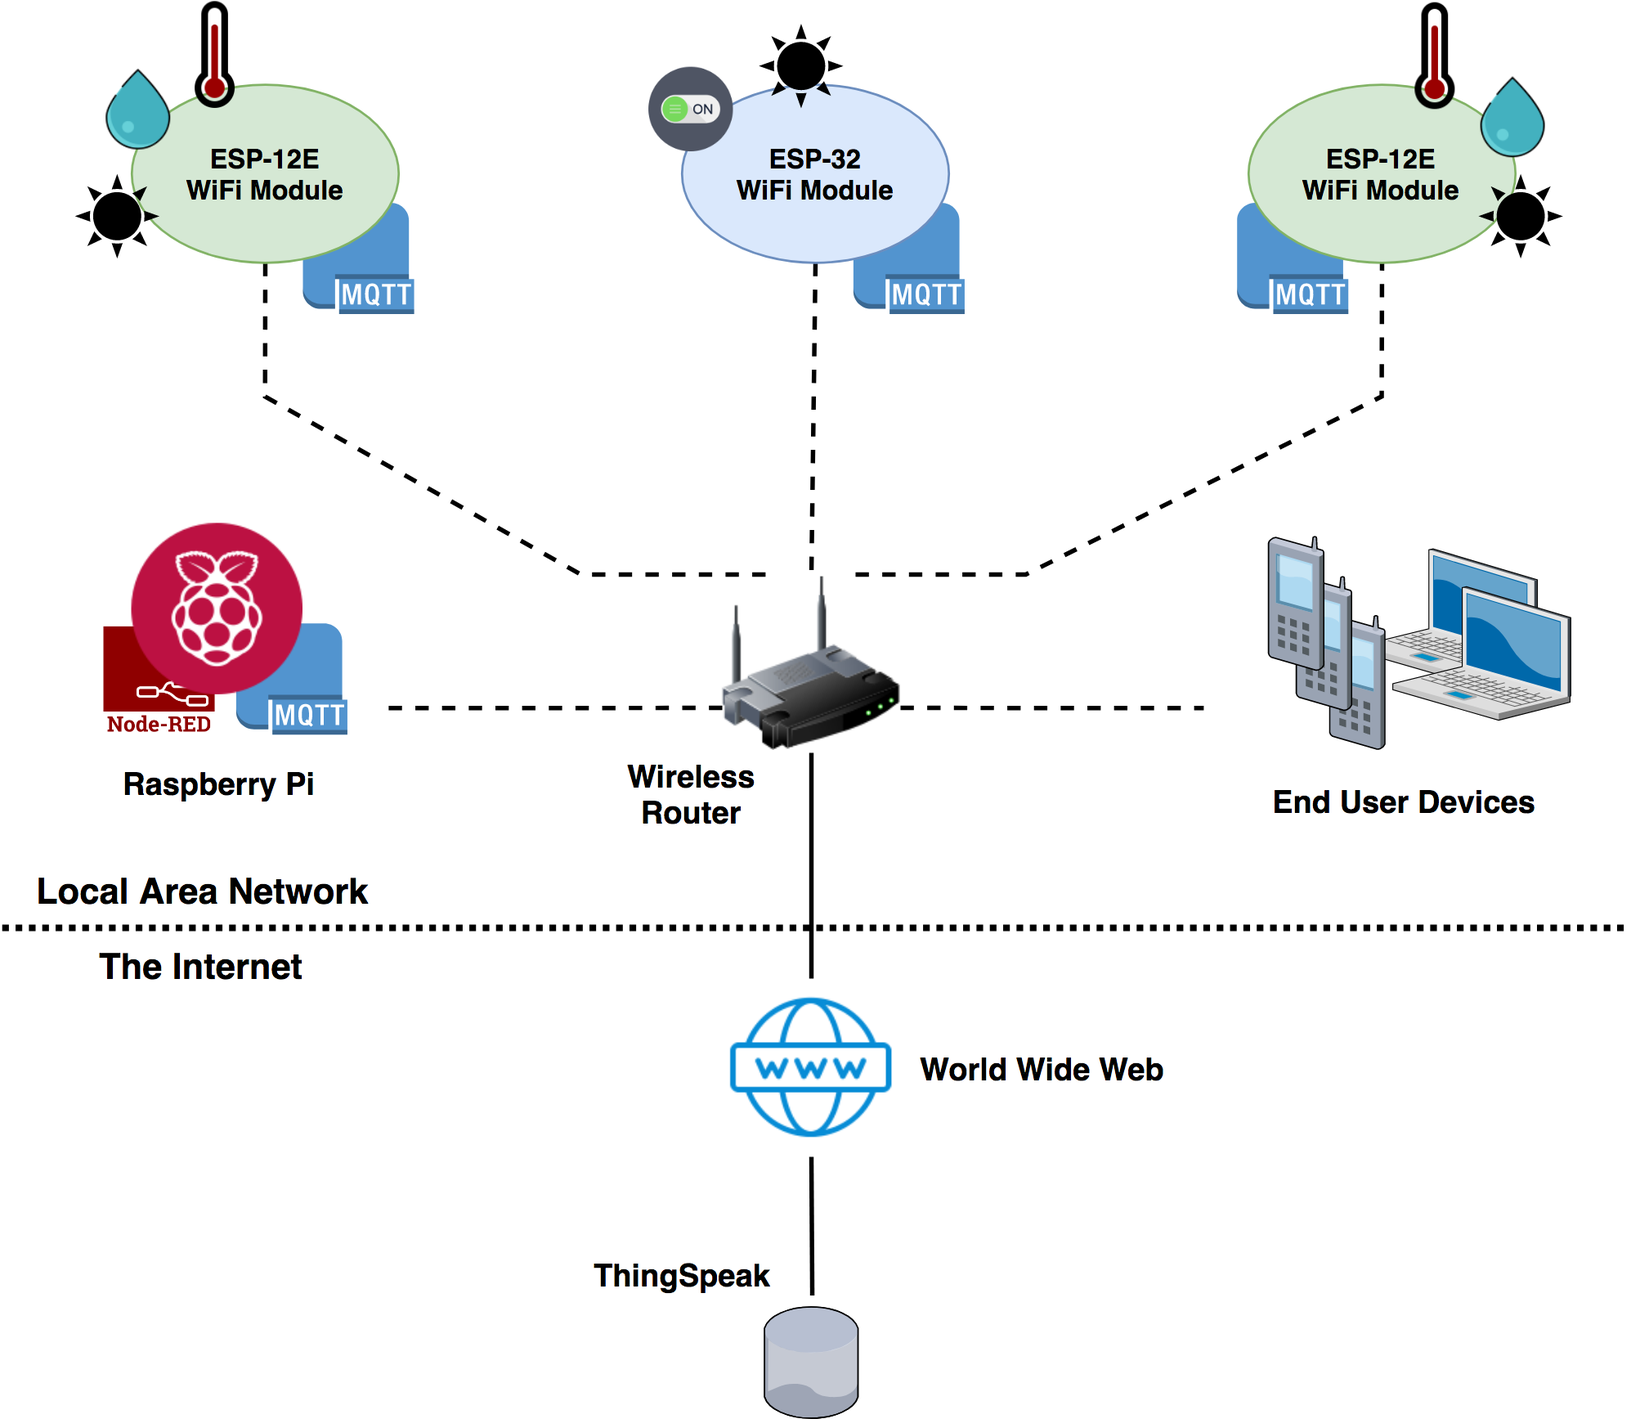
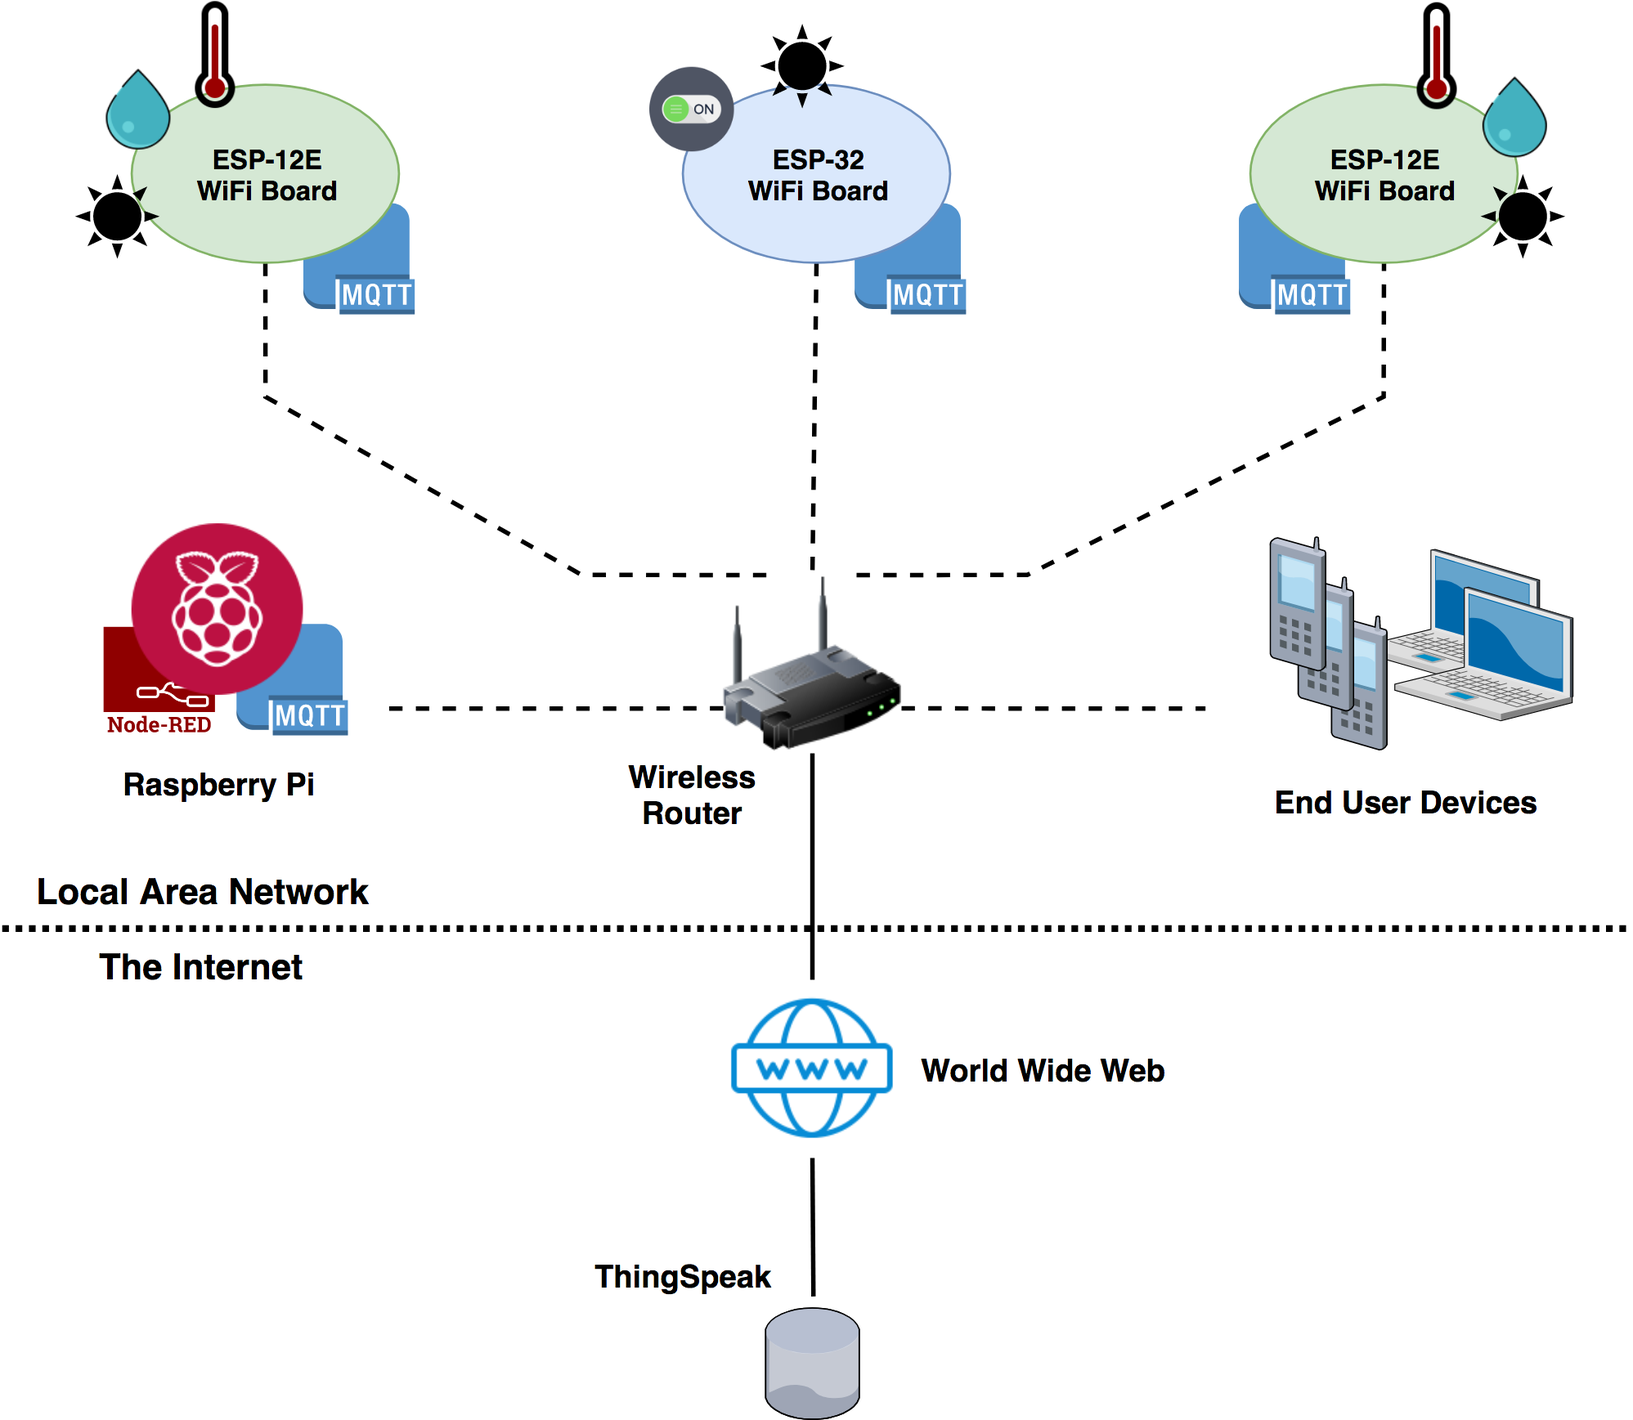
Revisions and discussion about ESP-32, code and sensors

diff --git a/doc/system_implementation.tex b/doc/system_implementation.tex
@@ -9,7 +9,7 @@ ESP-12E and ESP-32 NodeMCU are the IoT WiFi boards that have been chosen to desi
 Each board does not only publish data, but can also subscribe to a specific topic and receive remote commands to control actuators, such as relays.
 
 The end user is able to visualize a user-friendly, web-accessible dashboard directly from his/her own devices, which must be in the same network of the other system components, in case port forwarding is disabled. The interface is provided by Node-RED development tool.
-Furthermore, data are forwarded to ThingSpeak by the Raspberry board in order to log them in a remote database and to enable further analysis: ThingSpeak has integrated support from the numerical computing software MATLAB.
+Furthermore, data are forwarded to ThingSpeak by the Raspberry Pi board in order to log them in a remote database and to enable further analysis: ThingSpeak has integrated support from the numerical computing software MATLAB.
 
 \begin{figure}[H]
 	\begin{center}
@@ -19,23 +19,23 @@ Furthermore, data are forwarded to ThingSpeak by the Raspberry board in order to
 	\end{center}
 \end{figure}
 
-\section{Configuring the RPi}
-The Raspberry Pi is a tiny single-board computer featuring a Broadcom System-On-Chip with an integrated ARM compatible processor. There exist several different generations and models and the role in the system will suit them all. Anyway, using a Pi 3 Model B is highly recommended: it has a quad-core processor and on-board WiFi, Bluetooth and USB boot capabilities which do not require any extra module.
+\section{Configuring and Programming the RPi}
+The Raspberry Pi is a tiny single-board computer featuring a Broadcom System-On-Chip with an integrated ARM compatible processor. There exist several different generations and models and its role in the system will suit them all. Anyway, using a Pi 3 Model B is highly recommended: it has a quad-core processor and on-board WiFi, Bluetooth and USB boot capabilities which do not require any extra module.
 
-The Raspberry board needs a fresh installation of Raspbian Stretch, the official Debian-based Linux operating system of the Raspberry Pi Foundation. Other third-party operating systems are not taken into account by this document.
+The Raspberry Pi board needs a fresh installation of \textit{Raspbian Stretch}, the official Debian-based Linux operating system developed by the Raspberry Pi Foundation. Other third-party operating systems are not taken into account by this document.
 
 \begin{figure}[H]
 	\begin{center}
 		\includegraphics[width=0.6\textwidth]{./pictures/rpi_connections.png}
-		\caption{Location of connectors and main Integrated Circuits on the Raspberry Pi 3 Model B.}
+		\caption{Location of connectors and main integrated circuits on the Raspberry Pi 3 Model B.}
 		\label{rpi_connections}
 	\end{center}
 \end{figure}
 
 \noindent
-The board is used as headless computer, a device that has been configured to operate without a monitor, keyboard and mouse. The command line is accessed remotely from another computer on the same network using SSH. Since Raspbian has the SSH server disabled by default, it needs to be manually enabled from the desktop or in the terminal via \texttt{raspi-config}.
+The board is used as \textit{headless computer}, a device that has been configured to operate without a monitor, keyboard and mouse. The command line is accessed remotely from another computer on the same network using SSH. Since Raspbian has the SSH server disabled by default, it needs to be manually enabled from the desktop or in the terminal via \texttt{raspi-config}.
 
-Setting up a static IP address for the Raspberry is strongly recommended. It can be configured in the DHCP context menu of the wireless router. Since the procedure is different on any device, the handbook should be referred to.
+Setting up a static IP address for the Raspberry is strongly recommended. It can be assigned in the DHCP context menu of the wireless router. Since the procedure is different on any device, the router handbook should be referred to.
 
 Before proceeding with the following sections, all the software must be up-to-date. This straightforward operation is carried out by executing the commands below in a terminal window:
 
@@ -52,7 +52,7 @@ Information about a given topic are sent, or published, to a server that behaves
 \begin{figure}[H]
 	\begin{center}
 		\includegraphics[width=0.6\textwidth]{./pictures/mqtt.png}
-		\caption{The message broker is the central point of the MQTT infrastructure. It receives published information and forward it to subscribed clients.}
+		\caption{The message broker is the central point of the MQTT infrastructure. It receives published information and forwards it to subscribed clients.}
 		\label{mqtt_functioning}
 	\end{center}
 \end{figure}
@@ -61,9 +61,9 @@ Information about a given topic are sent, or published, to a server that behaves
 MQTT offers three quality of service (QoS) levels to guarantee a certain degree of performance to a data flow:
 
 \begin{itemize}
-	\item \textbf{0.} At most once delivery: this is the minimal level and guarantees a best effort delivery. A message won't be acknowledged by the receiver or stored by the sender.
-	\item \textbf{1.} At least once delivery: all the messages will be delivered at least once to the receiver. This is the QoS level used in the \textit{Home and Automation Monitoring} system because the overhead is lower than QoS 2 and it guarantees the message arrives at least once. Duplicates are not a problem at all because the user interface will be updated one or more time with the same piece of information and this will be completely unnoticeable by the end user.
-	\item \textbf{2.} Exactly once delivery. It is the safest and the slowest quality of service level.
+	\item \textbf{Level 0.} At most once delivery: this is the minimal level and guarantees a best effort delivery. A message won't be acknowledged by the receiver or stored by the sender.
+	\item \textbf{Level 1.} At least once delivery: all the messages will be delivered at least once to the receiver. This is the QoS level used in the \textit{Home and Automation Monitoring} system because the overhead is lower than QoS 2 and it guarantees the message arrives at least once. Duplicates are not a problem at all because the user interface would be updated one or more time with the same piece of information and this would be completely unnoticeable by the end user.
+	\item \textbf{Level 2.} Exactly once delivery. It is the safest and the slowest quality of service level.
 \end{itemize}
 
 \subsection{Mosquitto}
@@ -76,7 +76,7 @@ To install the broker, the following command must be run from the Raspberry Pi t
 \end{verbatim}
 
 \noindent
-The broker will automatically start whenever the Raspberry is powered up. The next step is adding users and passwords to secure the MQTT connection. The current directory must be \texttt{/etc/mosquitto} while typing successive commands:
+The broker will automatically start whenever the Raspberry is powered up. The next step is adding users and passwords to secure the MQTT connection. The current directory must be \texttt{/etc/mosquitto} while typing the successive commands:
 
 \begin{verbatim}
     // Add the first user
@@ -95,25 +95,37 @@ The following two lines must be added to the \texttt{mosquitto.conf} file.
 \end{verbatim}
 
 \noindent
-In this case, just a single user has been created to manage the MQTT connection: username is \texttt{admin} and password is \texttt{hamrpi}. These credentials are used to set up MQTT by Node-RED and any ESP node.
+As far as this system is concerned, just a single user has been created to manage the MQTT connection: username is \texttt{admin} and password is \texttt{hamrpi}. These credentials are used to set up MQTT by Node-RED and any ESP node.
 
 \subsection{Node-RED}
+TODO: spiegare cos'è ed a cosa serve. \\
+TODO: spiegare come si installa la dashboard (plugin aggiuntivo). \\
+TODO: spiegare come rendere sicuro l'accesso. \\
+TODO: spiegare quali blocchi sono stati utilizzati e immagine finale della UI.
 % Cos'è e cosa serve
 % Sicurezza con credenziali
 % Installazione dashboard
 % Blocchi MQTT + credenziali
 
+\subsection{ThingSpeak}
+TODO: spiegare cos'è ed a cosa serve. \\
+TODO: spiegare come è stato utilizzato in Node-RED.
+% Cos'è e cosa serve
+% Come ci colleghiamo al servizio?
+% In breve come si usa
+
 \section{Getting Started with ESP Boards}
 % Schematici + commento codice
 The \textit{Home Automation and Monitoring} system makes use of ESP modules to collect data from sensors and transmit them to the Raspberry Pi taking advantage of MQTT protocol.
 
-Two kinds of boards have been selected to play the role of MQTT client; namely NodeMCU ESP-12E and ESP-32 development kits. The former is based on the widely explored ESP8266 System-On-Chip, which combines WiFi and microcontroller capabilities. The latter utilizes an ESP32 SoC that is very similar, but far more powerful. It has been designed to provide robustness, versatility and reliability in a wide variety of applications.
+Two kinds of boards have been selected to play the role of MQTT client; namely NodeMCU ESP-12E and ESP-32 development kits. The former is based on the widely explored ESP8266 System-On-Chip, which combines WiFi and microcontroller capabilities. The latter utilizes an ESP32 SoC that is very similar, but far more powerful: it has been designed to provide robustness, versatility and reliability in a wide variety of applications.
 
-Both the board can be easily programmed using the Arduino IDE after installing the appropriate cores via Arduino Boards Manager. The core installation will not be covered by this document.
+Both the boards can be easily programmed using the Arduino IDE after installing the appropriate cores via Arduino Boards Manager. The core installation will not be covered by this document.
 
 Please notice that there is not a particular reason to use one specific board or the other: they both can fulfill the requirements of the project. The usage of different boards creates heterogeneity and variety, which are always present in the real world. 
 
 \subsection{ESP-12E: Sensors, Wiring and Code}
+\label{esp12_getting_started}
 An accurate picture of the board pinout is shown in Figure \ref{esp12_pinout}. The ESP8266 module requires 3.3V power supply. Luckily the board provides a voltage regulator and can be connected to 5V using microUSB connector or \textit{Vin} pin.
 
 \begin{figure}[H]
@@ -126,6 +138,7 @@ An accurate picture of the board pinout is shown in Figure \ref{esp12_pinout}. T
 
 \noindent
 There is a number of two ESP-12E boards involved in the system. They both have the same configuration, sensors and wiring, but can be deployed in two different areas.
+In more details, each board takes advantage of temperature, humidity and light sensors.
 
 \subsubsection{Status LEDs}
 Three LEDs give information about the status of the board:
@@ -139,14 +152,14 @@ Three LEDs give information about the status of the board:
 \subsubsection{Temperature and humidity sensor}
 DHT11 and DTH22 are low cost temperature and humidity sensors. They are made of two parts: a thermistor and a capacitive humidity sensor. A small chip inside performs analog to digital conversion to let any microcontroller read the digital output signal.
 
-Even though the two DHT sensors are interchangeable, DHT22 is more accurate and covers a larger range of temperature.
+Even though the two DHT sensors are interchangeable, DHT22 is more accurate and covers a larger range of temperatures.
 
-Since the system involves two ESP-12E boards, both the sensors are used for the sake of completeness. Moreover, the fact that it is fairly easy to connect up to them, as shown in Figure \ref{esp12_wiring}, the low cost and ease of interfacing make them an appropriate choice for the system.
+Since the system involves two ESP-12E boards, both the sensors are used for the sake of completeness. Moreover, the fact that it is fairly easy to connect up to them, as shown in Figure \ref{esp12_wiring}, the low cost and ease of interfacing make these sensors an appropriate choice for the system.
 
 \subsubsection{Light sensor}
 A light sensor can be used to detect the current ambient light level, in particular the presence or absence of light. There exist several types of light sensors: photoresistors, phototransistors, photodiodes...
 
-The chosen approach was making use of a photoresistor, taking advantage of the ADC provided by ESP boards.
+The chosen approach is making use of a photoresistor, taking advantage of the ADC provided by ESP boards.
 
 A photoresistor changes its resistance based on the amount of light that falls upon it: the more the light, the less the resistance. A simple voltage divider can be used to give an input to the ADC, as illustrated by Figure \ref{esp12_wiring}.
 
@@ -166,11 +179,100 @@ Pin D0 (GPIO 16) needs to be connected to RST to wake up the device when deep sl
 \end{figure}
 
 \subsubsection{Code}
-TODO: code description.
+The main parts of the code are described by the following tables. In more detail, libraries are reported by Table \ref{esp12_code_libraries}, define preprocessor directives by Table \ref{esp12_code_defines}, global variables by Table \ref{label} and, lastly, functions by Table \ref{label}.
+
+\noindent\begin{minipage}{\textwidth}
+\begingroup
+\setlength{\LTleft}{-20cm plus -1fill}
+\setlength{\LTright}{\LTleft}
+	\begin{longtable}{l | l}
+		\hline
+		\textbf{Library} & \textbf{Description} \\
+		\hline
+		\hline
+		ESP8266WiFi.h & Required to enable WiFi connectivity. \\
+		\hline
+		DHT.h & Required to interface with DHT sensors. \\
+		\hline
+		Adafruit\_MQTT.h & Required to take advantage of MQTT protocol. \\ 
+		Adafruit\_MQTT\_Client.h &  \\
+		\hline
+
+	\caption{Libraries involved in the sketches for ESP-12E boards.}
+	\label{esp12_code_libraries}
+	\end{longtable}
+\endgroup
+\end{minipage}
+
+\noindent\begin{minipage}{\textwidth}
+\begingroup
+\setlength{\LTleft}{-20cm plus -1fill}
+\setlength{\LTright}{\LTleft}
+	\begin{longtable}{l | l}
+		\hline
+		\textbf{\#define Directive} & \textbf{Description} \\
+		\hline
+		\hline
+		DEBUG & Enables debug over serial communication. \\
+		\hline
+		\hline
+		WLAN\_SSID & Name of the WiFi network to connect to. \\
+		WLAN\_PASS & Password to join the WiFi network. \\ 
+		\hline
+		\hline
+		HOST & MQTT broker IP address. \\
+		PORT & MQTT broker port. \\
+		USERNAME & Credentials to set up the MQTT connection. \\
+		PASSWORD & Credentials to set up the MQTT connection. \\
+		\hline
+		\hline
+		SLEEP\_TIME & Deep sleep duration. \\
+		CONN\_ATTEMPTS & Number of attempts to get WiFi connection before entering deep sleep mode. \\
+		MQTT\_ATTEMPTS & Number of attempts to connect to MQTT service provided by the broker. \\
+		\hline
+		\hline
+		DHT\_TYPE & Type of DHT sensor. \\
+		DHT\_PIN & Digital pin to read data coming from DHT sensor. \\
+		\hline
+		\hline
+		LED\_RED & GPIO that controls the red led. \\
+		LED\_YELLOW & GPIO in charge of controlling the yellow led. \\
+		LED\_GREEN & GPIO that controls the green led. \\
+		\hline
+
+	\caption{Define directives specified in the sketches for ESP-12E boards.}
+	\label{esp12_code_defines}
+	\end{longtable}
+\endgroup
+\end{minipage}
+
+\textbf{TODO:} mancano tabelle global variables e funzioni
 
 \subsection{ESP-32: Sensors, Wiring and Code}
+An accurate picture of the board pinout is shown in Figure \ref{esp32_pinout}. As for ESP8266, also ESP32 requires 3.3V to operate. The board is provided with a voltage regulator and can be powered up by an external power source through USB connection or \textit{Vin} pin.
 
-\section{Connecting to ThingSpeak}
-% Cos'è e cosa serve
-% Come ci colleghiamo al servizio?
-% In breve come si usa
+\begin{figure}[H]
+	\begin{center}
+		\includegraphics[width=\textwidth]{./pictures/ESP-32_pinout.JPG}
+		\caption{ESP-32 pinout. Notice the presence of multiple ADC pins, in contrast with the only one offered by ESP-12E boards.}
+		\label{esp32_pinout}
+	\end{center}
+\end{figure}
+
+\noindent
+Just a single board of this type is involved in the system. It is hooked up to a light sensor and to a relay module. The board does not take advantage of deep sleep functionality because it needs to be always up and running in order to reduce the latency to switch on and off the relay.
+
+\subsubsection{Status LEDs}
+Three LEDs fit out information about the status of the board. They work exactly as for ESP-12E boards: make reference to subsection \ref{esp12_getting_started}.
+
+\subsubsection{Light sensor}
+A photoresistor and a voltage divider are used to provide light intensity information. The operating principle is the same as for ESP-12E boards: please, make reference to subsection \ref{esp12_getting_started}.
+
+\subsubsection{Relay module}
+A relay is an electrical switch operated by an electromagnet. Relays are usually used to control a high voltage circuit with a low power one. A microcontroller can drive relays with one of its digital pins: this is exactly what ESP32 is used for.
+
+The advanced WiFi connectivity of the board gives the possibility to remotely control the digital pin hooked to the relay module turning it into a remote switch.
+
+As mentioned earlier, in order to reduce the latency to turn on and off the relay, the module is always active and does not enter any sleep state.
+
+% TODO: piazzare schematico ESP-32 qui.

diff --git a/doc/introduction.tex b/doc/introduction.tex
@@ -23,12 +23,13 @@ Last but not least, power consumption has been taken into account: battery-power
 \section{Definitions, Acronyms, Abbreviations}
 
 \begin{itemize}
-	\item \textbf{AP:} wireless Access Point, it allows Wi-Fi devices to connect a to wired network. Usually it is an integral component of routers for home or office use.
+	\item \textbf{ADC:} Analog to Digital Converter.
+	\item \textbf{AP:} wireless Access Point, it allows Wi-Fi devices to connect to a wired network. Usually it is an integral component of routers for home or office use.
 	\item \textbf{Back-end:} any device or computer program that remains in the background and offers application logic and communication interfaces to work with the front-end counterpart. It can provide a data access layer.
 	\item \textbf{Front-end:} any part of a system the users directly interact with. It provides the so called presentation layer.
 	\item \textbf{IoT:} Internet Of Things.
 	\item \textbf{LAN:} Local Area Network.
-	\item \textbf{MQTT:} Message Queuing Telemetry Transport, it is a publish-subscribe messaging protocol.
+	\item \textbf{MQTT:} Message Queuing Telemetry Transport, a publish-subscribe messaging protocol.
 	\item \textbf{System:} the entire infrastructure and all the devices involved in the \textit{Home Automation and Monitoring} project.
-	\item \textbf{SoC:} System-On-Chip.
+	\item \textbf{SoC:} System-On-Chip, an integrated circuit that contains various electronic components designed to work together to achieve a common goal.
 \end{itemize}

diff --git a/doc/system_deployment.tex b/doc/system_deployment.tex
@@ -1,3 +1,15 @@
 \section{Work Environment Example}
+TODO: esempio di deployment con immagine casa.
+
+\begin{figure}[H]
+	\begin{center}
+		\includegraphics[width=\textwidth]{./pictures/blueprint_deployment.png}
+		\caption{.}
+		\label{blueprint_deployment}
+	\end{center}
+\end{figure}
+
+TODO: aggiungere la Raspberry Pi alla figura.
 
 \section{Future Extensions}
+TODO: spiegare che è possibile collegare più di tre schede, diversi sensori e attuatori. Esempio: sensori di pressione. E' anche possibile collegare pannelli solari per ricavare energia in caso di alimentazione a batteria.

diff --git a/doc/iot_ham_main.tex b/doc/iot_ham_main.tex
@@ -54,8 +54,7 @@
 	\vspace{1.8cm}
 	{\Large {Internet of Things - 089073} \par}
 	\vspace{1.2cm}
-	{\LARGE \textbf{Home Automation and Monitoring \\
-		System} \par}
+	{\LARGE \textbf{Home Automation and Monitoring} \par}
 	\vspace{2.5cm}
 	\begin{flushright}
 		{\Large\itshape{Angelo Claudio Re \\ Giovanni Scotti \\}
